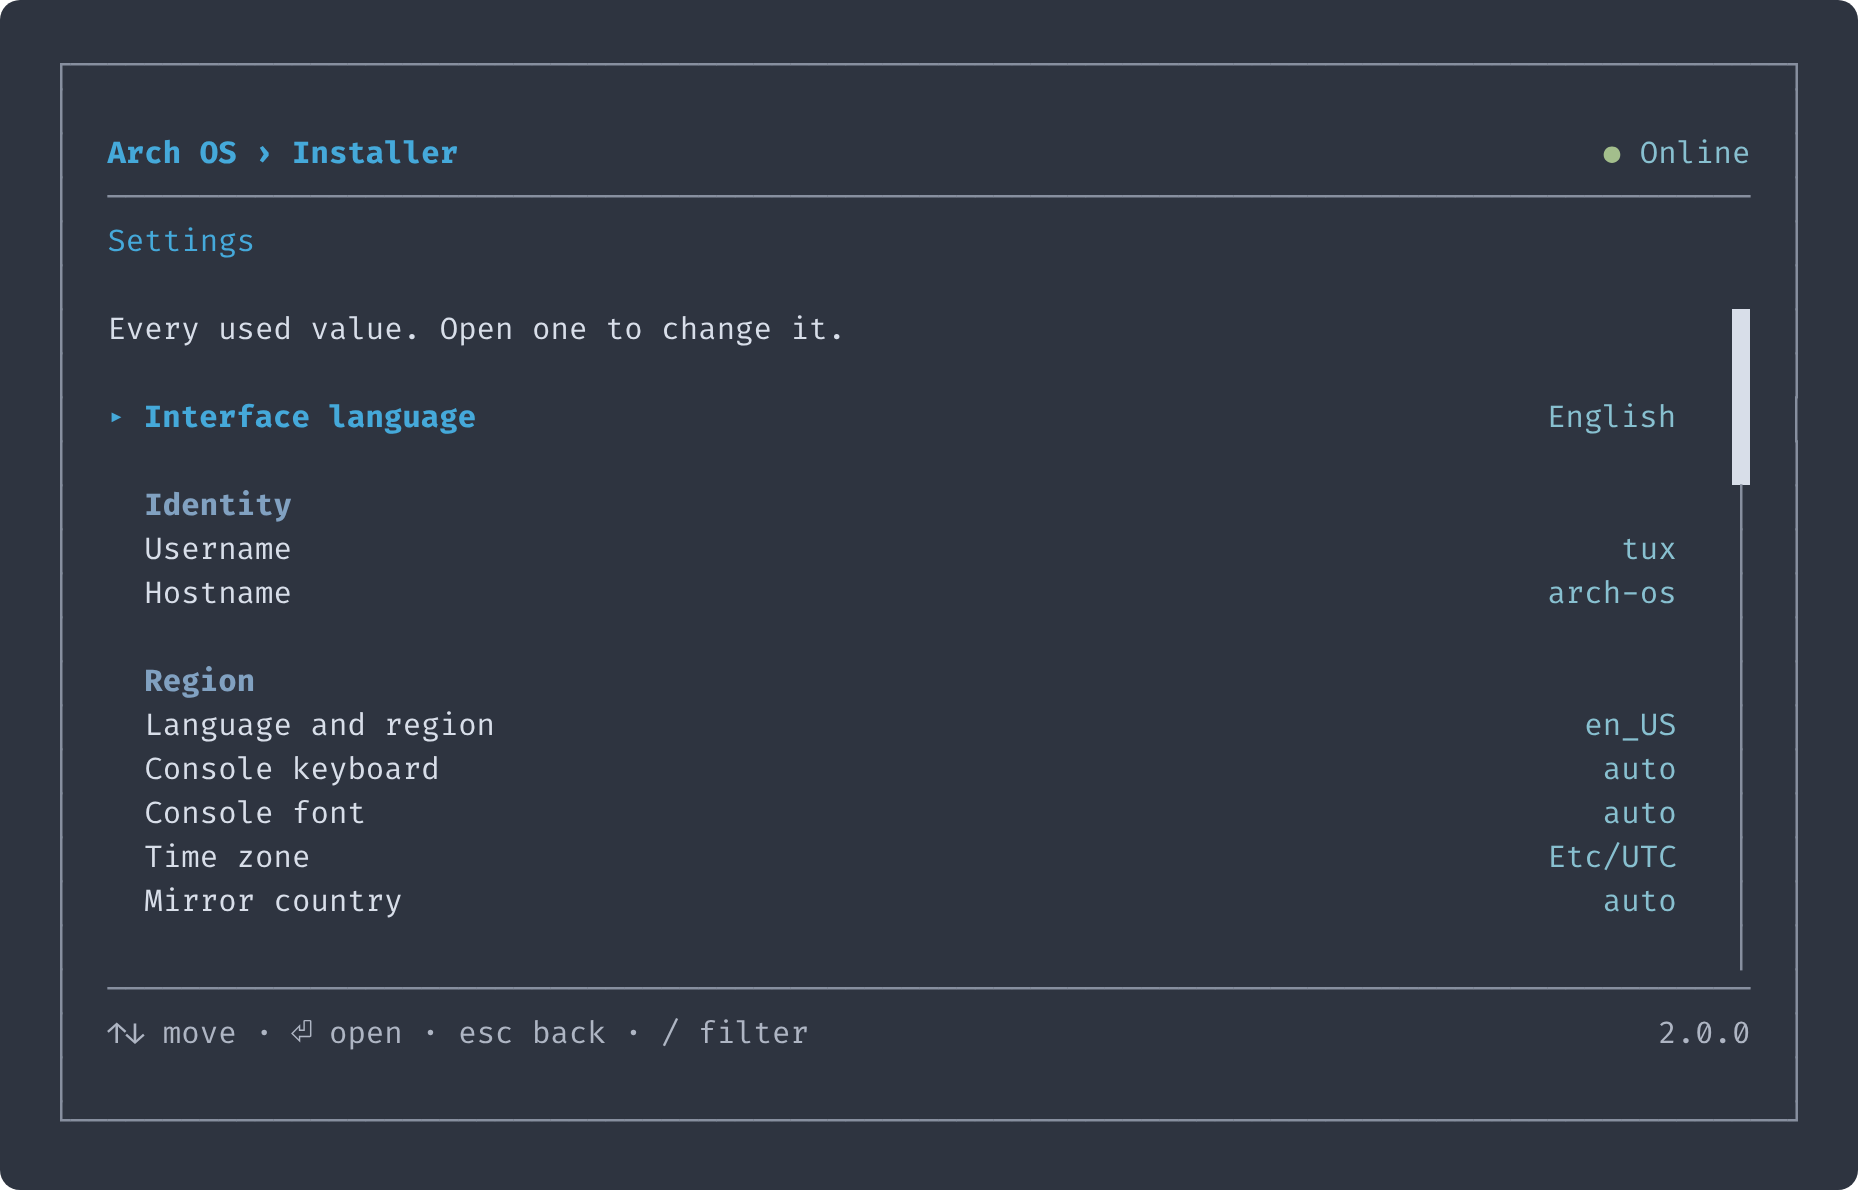
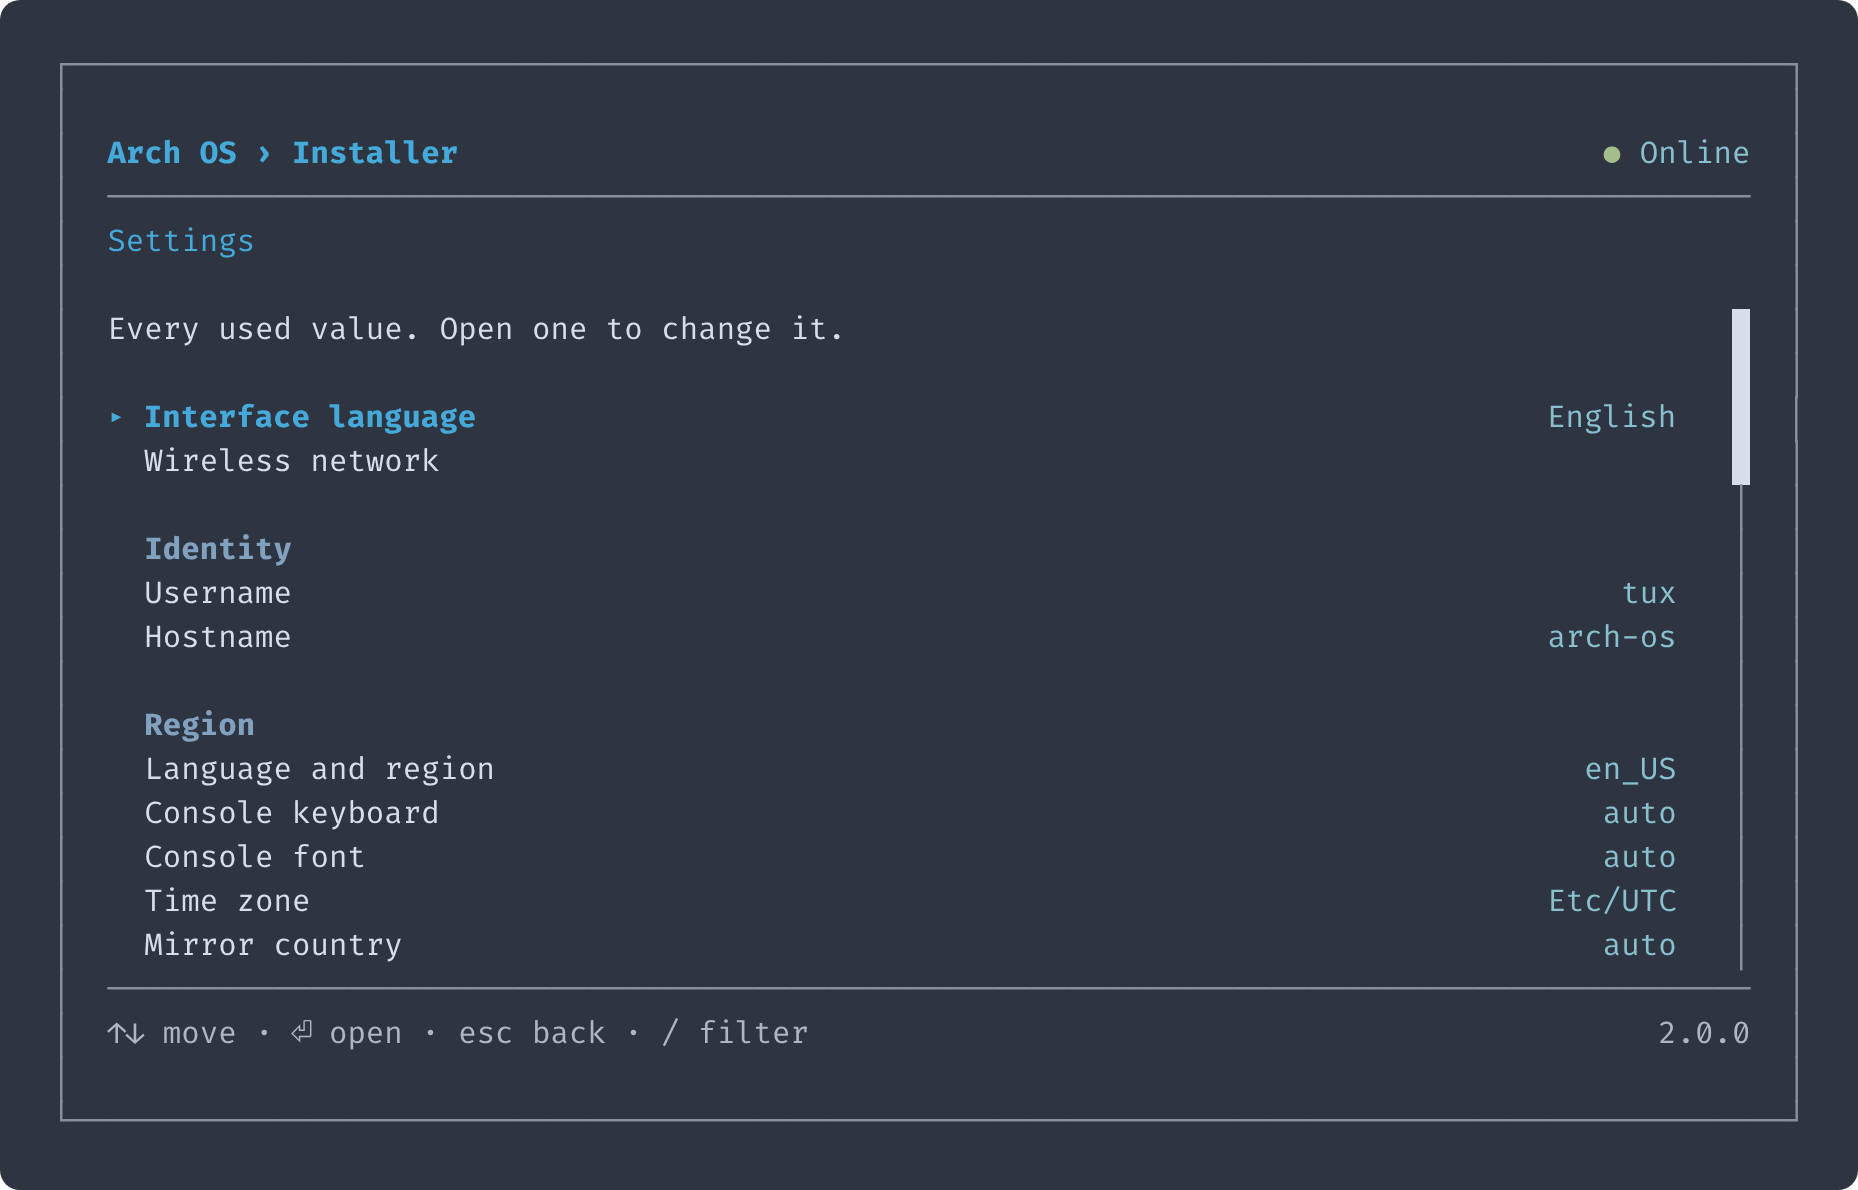
feat: the network declared per module, a wireless network in the settings wherever there is a card, and a cable on the Recovery partition
Oak 0.12.0, where a module declares `network:` and the hooks are the how.

The Installer declares `wlan: true` and `internet: required`. Before its work, after the keyboard, it waits on the Internet page until there is a connection, lists the wireless networks in range where there is a card, and carries on by itself once a cable is plugged in. Continue anyway is gone, and with it the preflight check for a network, which only said the same later.

The Recovery declares `wlan: true` and `internet: optional`. Nothing waits for a network, and it gets `@online`, so a joined network counts once it carries anything. Wireless network is no longer on its menu.

Both put Wireless network in their settings, under the interface language, wherever the machine has a card. The card is read off the kernel before anything is started, so a machine without one starts nothing for it. The Recovery partition brings a cable up at boot, the way the Arch ISO does, and starts iwd once there is a card to ask it about.

A simulated run shows a card, two networks and a connection, so the pictures come out the same on every desk. The settings screenshot and the banner show the new row.

diff --git a/docs/REFERENCE.md b/docs/REFERENCE.md
@@ -281,7 +281,7 @@ Two questions - keyboard, disk - and on its own partition not even those, see be
 | Kernels | `/usr/lib/modules/*/` | While rebuilding boot |
 | Snapshots | `@snapshots` on the btrfs top level | Mid-run; none means the rollback step is skipped |
 
-Nothing it does needs a network - the network may be what broke, and kernel images come from the package cache. **Wireless network** on its menu joins one all the same, for whatever somebody wants to fetch in the shell. Nothing of the network starts before that, on its own partition or anywhere else.
+Nothing it does needs a network - the network may be what broke, and kernel images come from the package cache. **Wireless network** in its settings joins one all the same, for whatever somebody wants to fetch in the shell, wherever the machine has a card. On its own partition a cable comes up at boot, and the wireless daemon starts once there is a card to ask it about; nothing else of the network runs.
 
 It repairs what the Installer of the same release makes, and nothing older: `linux-zen`, btrfs with the whole subvolume layout, systemd-boot. A disk installed by an earlier release - one short of a subvolume, on ext4 - is turned away with the reason, and opened by the Recovery of the release it was installed with. Every release stays on **[the release page](https://github.com/murkl/arch-os/releases)**.
 
@@ -295,7 +295,7 @@ What the Recovery starts with on its own partition is put in force before the fi
 
 The Recovery of the release that installed the system, on a partition of its own at the end of the disk and in the boot menu as **Arch OS Recovery**. It is the one that knows this layout, and it needs neither a USB stick nor a network to start. With **Recovery** off there is none - the ISO opens the system all the same.
 
-It is built with the release rather than on the machine, out of Arch's own minimal profile `baseline`: the kernel, `base`, `btrfs-progs`, `arch-install-scripts`, Plymouth and the Recovery module, and `iwd` with the firmware of the wireless cards. No editor, and nothing it starts but the Recovery - the network comes up only when **Wireless network** is chosen; manuals, translations, headers, the graphics drivers and whatever the firmware packages carry for graphics, cameras and Bluetooth are left out as the packages go in. The ISO carries it ready-made. Any other live image fetches it from the release the Installer belongs to - `arch-os-X.Y.Z-recovery-x86_64.tar`, held to the checksum GitHub publishes for it - into `/tmp`, before the disk is touched. Either way the Installer only writes it:
+It is built with the release rather than on the machine, out of Arch's own minimal profile `baseline`: the kernel, `base`, `btrfs-progs`, `arch-install-scripts`, Plymouth and the Recovery module, and `iwd` with the firmware of the wireless cards. No editor, and nothing it starts but the Recovery and a cable's network - the wireless daemon only once there is a card; manuals, translations, headers, the graphics drivers and whatever the firmware packages carry for graphics, cameras and Bluetooth are left out as the packages go in. The ISO carries it ready-made. Any other live image fetches it from the release the Installer belongs to - `arch-os-X.Y.Z-recovery-x86_64.tar`, held to the checksum GitHub publishes for it - into `/tmp`, before the disk is touched. Either way the Installer only writes it:
 
 | File | Goes to | What it is |
 | --- | --- | --- |

diff --git a/docs/README.md b/docs/README.md
@@ -38,8 +38,8 @@
 - AUR helper, 32-bit support, container engine, firewall, SSH server, automatic housekeeping
 - The text editor of your choice - nano, vim, neovim, micro or helix - with a small configuration of its own: a theme close to the system's palette, line numbers, the mouse, and tabs of four spaces
 - [Bootsplash](https://github.com/murkl/plymouth-theme-arch-os), System Manager, Shell Enhancement (zsh)
-- Recovery in the boot menu and on the same image, works without a network - and opens straight on its menu, in your language, where a wireless network can be joined whenever something has to be fetched
-- Wireless network joined from the Installer itself, before the first download, and whether this machine is online always in the corner of the screen
+- Recovery in the boot menu and on the same image, works without a network - and opens straight on its menu, in your language, with a wireless network in its settings whenever something has to be fetched
+- Wireless network joined from the Installer itself, before the first download and later in its settings - offered only where there is a card - and whether this machine is online always in the corner of the screen
 - Create boot medium: writes the USB device from any Linux machine, no root needed but for the write itself - and the password for that is typed into the interface like any other
 - Virtual machines both ways: guest tools inside a VM on their own, libvirt and QEMU on real hardware if you want them
 - Two starting points, **Core** and **Desktop** - everything else stays a row in the settings
@@ -47,7 +47,7 @@
 
 ## Installation
 
-An internet connection is required. Without a cable, the Installer offers the wireless networks in range and joins one.
+An internet connection is required. The Installer waits for one before its work and carries on by itself once a cable is plugged in - or offers the wireless networks in range and joins one.
 
 ### 1. Prepare a bootable USB device
 
@@ -117,7 +117,7 @@ Every installation carries it on a small partition of its own. Hold **space** wh
 - Rebuilds the kernel images from the local package cache
 - Opens a shell inside it
 
-From the ISO it asks two questions - keyboard and disk - and reads the rest off the machine. From its partition it asks none: it starts in the language and on the keyboard the system was installed with, on the disk it was started from, straight on its menu. No network needed either way - one can be joined from its menu for whatever is to be fetched.
+From the ISO it asks two questions - keyboard and disk - and reads the rest off the machine. From its partition it asks none: it starts in the language and on the keyboard the system was installed with, on the disk it was started from, straight on its menu. No network needed either way - one can be joined from its settings for whatever is to be fetched.
 
 There it is the only thing the machine runs, and there is no prompt behind it. Leaving it offers **Reset** where the ISO offers **Exit**: every answer is forgotten and the Recovery starts over. The shell inside the repaired system stays one of its steps, opening on **no**.
 

diff --git a/modules/installer/README.md b/modules/installer/README.md
@@ -48,8 +48,10 @@ Oak's own moments, not this module's work: one folder per hook, one per step, `h
 
 | Hook | Description |
 | --- | --- |
-| `@preflight` | root, then UEFI with Secure Boot off, then a network |
-| `@online`, `@wlan-device`, `@wlan-networks`, `@wlan-connect` | Finding and joining a wireless network, on the way in wherever there is no internet. The shell is **[oak.sh](../../oak.sh)**'s, which the Recovery joins one with too |
+| `@preflight` | root, then UEFI with Secure Boot off |
+| `@online`, `@wlan-device`, `@wlan-networks`, `@wlan-connect` | Whether there is internet, and joining a wireless network. The shell is **[oak.sh](../../oak.sh)**'s, which the Recovery joins one with too |
+
+**Note:** _`network:` in `module.yaml` is what puts them to work: `internet: required` holds the work on the Internet page until `@online` says yes - the wireless networks in range on it where there is a card, and a cable otherwise - and `wlan: true` puts **Wireless network** in the settings, under the language, wherever there is a card._
 | `@restart`, `@shutdown` | The two ways this machine is put down, each closing the target first |
 
 **Note:** _The third way out is `console:` in `module.yaml`: the Installer closes, the machine keeps running. See **[iso/](../../iso)**._
@@ -107,7 +109,7 @@ The console keyboard is asked `first` and takes effect immediately: a password t
 
 ## Requirements
 
-A booted **Arch Linux live image** - `requires:` in `module.yaml`. On it: root, UEFI with Secure Boot off, a network - `hooks/@preflight/`, in that order.
+A booted **Arch Linux live image** - `requires:` in `module.yaml`. On it: root, then UEFI with Secure Boot off - `hooks/@preflight/`, in that order - and the internet, which the Internet page in front of the work waits for - `network:` in `module.yaml`.
 
 **Note:** _`--debug` offers every module and simulates its work._
 

diff --git a/modules/recovery/README.md b/modules/recovery/README.md
@@ -39,9 +39,9 @@ Three stages; after the first, every step is optional.
 
 ## Nothing is downloaded
 
-A broken network may be the problem, so this module never asks for one: no `@online` hook, and kernel images come from the local pacman cache. `hooks/@preflight/` checks only root - not firmware, since this machine is not what is being set up.
+A broken network may be the problem, so this module never waits for one - `internet: optional` in `module.yaml` - and kernel images come from the local pacman cache. `hooks/@preflight/` checks only root - not firmware, since this machine is not what is being set up.
 
-It can join one all the same, for whatever somebody wants to fetch in the shell: `@wlan-device`, `@wlan-networks` and `@wlan-connect` put **Wireless network** on its menu, with the shell the Installer joins one with - **[oak.sh](../../oak.sh)**. On its own partition that is also what starts the network: nothing of it runs before.
+It can join one all the same, for whatever somebody wants to fetch in the shell: `wlan: true` puts **Wireless network** in its settings, under the language, wherever there is a card. `@wlan-device`, `@wlan-networks` and `@wlan-connect` join it, with the shell the Installer joins one with - **[oak.sh](../../oak.sh)** - and `@online` says whether it carries anything. On its own partition a cable comes up at boot, and the wireless daemon starts once there is a card to ask it about.
 
 ## Two Questions, and no more
 
